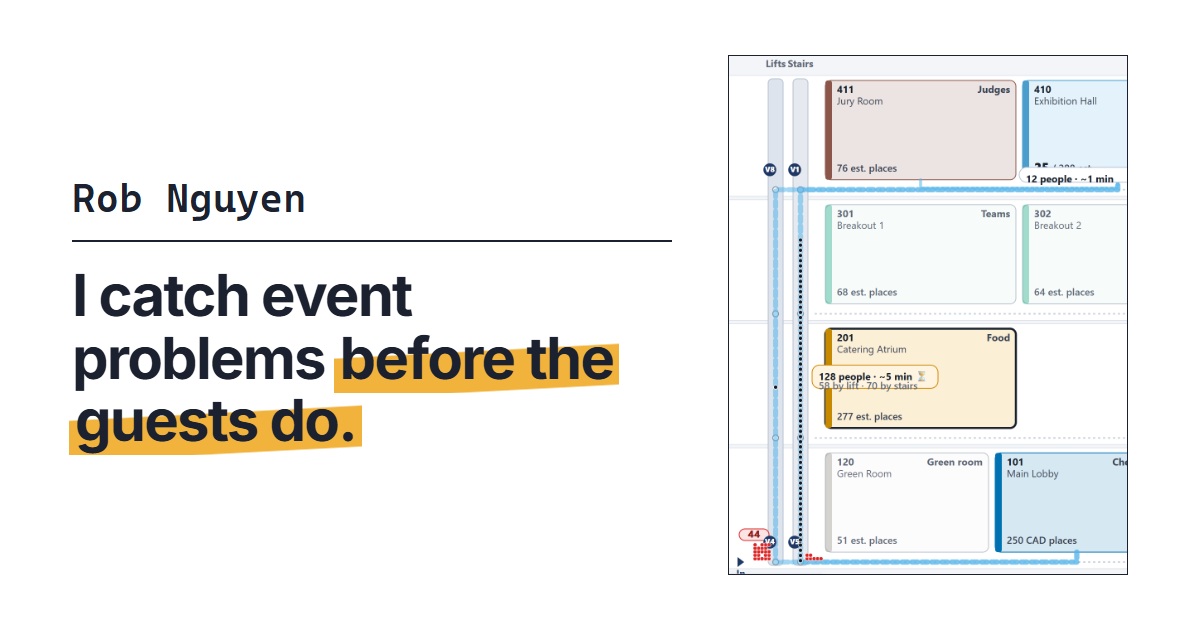
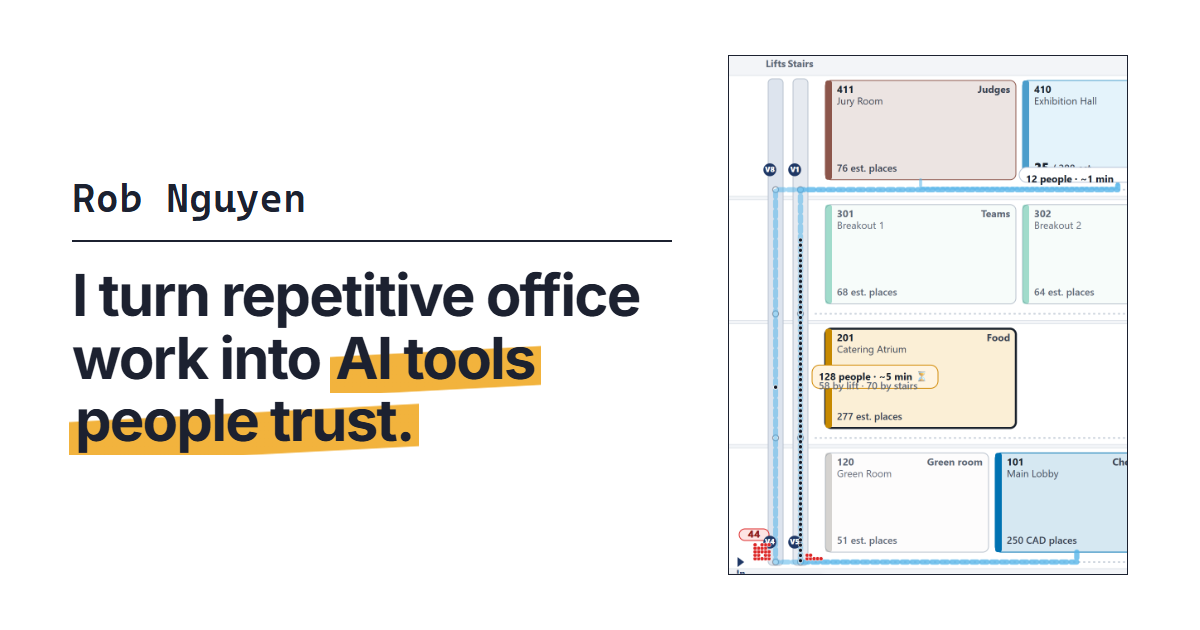
New home headline, Events Finance tools, remove How this site was made

Changed region(s): [[0.0617, 0.4222, 0.555, 0.7238]]

diff --git a/index.html b/index.html
@@ -5,13 +5,13 @@
 <meta name="viewport" content="width=device-width, initial-scale=1">
 <meta http-equiv="Content-Security-Policy" content="default-src 'none'; script-src 'self'; style-src 'self'; img-src 'self'; media-src 'self'; font-src 'self'; connect-src 'none'; frame-src 'none'; object-src 'none'; base-uri 'none'; form-action 'none'">
 <meta name="referrer" content="no-referrer">
-<title>Rob Nguyen | Events, planned to the detail</title>
-<meta name="description" content="I catch event problems before the guests do: planning, catering, set-ups and the tools that check them, at U of T Engineering.">
+<title>Rob Nguyen | AI tools people trust</title>
+<meta name="description" content="I turn repetitive office work into AI tools people trust: an office assistant, an event planner and automated invoice approvals, at U of T Engineering.">
 <meta property="og:type" content="website">
-<meta property="og:title" content="Rob Nguyen | Events, planned to the detail">
-<meta property="og:description" content="I catch event problems before the guests do: planning, catering, set-ups and the tools that check them, at U of T Engineering.">
+<meta property="og:title" content="Rob Nguyen | AI tools people trust">
+<meta property="og:description" content="I turn repetitive office work into AI tools people trust: an office assistant, an event planner and automated invoice approvals, at U of T Engineering.">
 <meta property="og:image" content="https://bobbypendragon.github.io/img/social-card.png">
-<meta property="og:image:alt" content="The name Rob Nguyen and the line I catch event problems before the guests do, beside a screenshot of the design competition planner in Demo Hall, a fictional venue.">
+<meta property="og:image:alt" content="The name Rob Nguyen and the line I turn repetitive office work into AI tools people trust, beside a screenshot of the design competition planner in Demo Hall, a fictional venue.">
 <meta property="og:url" content="https://bobbypendragon.github.io/">
 <link rel="canonical" href="https://bobbypendragon.github.io/">
 <link rel="icon" href="favicon.ico" sizes="any">
@@ -48,7 +48,7 @@
 </div>
 </header>
 <main id="main" tabindex="-1">
-<div class="docbar" aria-hidden="true"><div class="wrap docbar-inner"><span>Run of show</span><span class="docbar-who">Rob Nguyen &middot; ISTEP, U of T Engineering</span><span class="docbar-rev">Rev. Nov 2026</span></div></div><section class="row show-intro"><div class="wrap row-grid"><p class="row-label" aria-hidden="true">House open</p><div class="row-body"><h1>I catch event problems <span class="mark">before the guests do.</span></h1><div class="intro-cols"><p class="intro-lede">I work on events at ISTEP, U of T Engineering: catering for every diet, room set-ups, table cards and badges, and getting vendors paid. When the same problem keeps happening, I build a tool that catches it.</p><p class="intro-ai-short"><strong>How I work:</strong> I design and direct; Claude helps me build. <a href="about.html#how-i-work">More on how I work</a></p></div></div></div></section><section class="row stage-panel" aria-labelledby="onstage-h"><div class="wrap row-grid"><p class="row-label">Featured</p><div class="row-body"><div class="stage-inner"><div class="stage-copy"><p class="stage-status"><span class="status status-in-use"><span class="status-dot" aria-hidden="true"></span>In use by my team</span></p><h2 id="onstage-h" class="stage-title">Design competition planner</h2><p class="stage-line">One offline file that replays every move of a 200-person, five-floor event, finds the bottlenecks and suggests fixes it has already tested.</p><ul class="stage-stats"><li><strong class="num">200</strong><span>guests across five floors</span></li><li><strong class="num">3</strong><span>days, planned move by move</span></li><li><strong class="num">9</strong><span>room set-up styles</span></li></ul><div class="stage-cta"><a class="btn-stage" href="projects/event-planner.html">See how it works <span aria-hidden="true">&rarr;</span></a><p class="stage-new"><span class="mono">New</span> Reads the building's floor plans from CAD and prints room set-up diagrams.</p></div></div><figure class="stage-media vt-event-planner"><video controls preload="none" playsinline poster="media/event-planner/demo/04-report-stacked-poster960.webp" width="1440" height="900" aria-describedby="stage-cap"><source src="assets/event-planner/demo/simulation.mp4" type="video/mp4"><p>This browser can't play the video. <a href="assets/event-planner/demo/simulation.mp4">Download the MP4</a> (2.4 MB).</p></video><figcaption id="stage-cap">A 33-second screen recording of the simulation in Demo Hall, a fictional venue, person by person: the climb to the exhibition, the coffee break, the awards and dinner. No sound; 2.4 MB MP4.</figcaption></figure></div></div></div></section><section class="row stat-band"><div class="wrap row-grid"><span class="row-label"></span><div class="row-body"><ul class="band"><li><a href="projects/event-operations.html"><strong class="num">7</strong><span class="band-label">issues flagged before the guests arrived</span></a></li><li><a href="projects/event-operations.html"><strong class="num">210</strong><span class="band-label">meals over three days for 35 guests, within budget</span></a></li><li><a href="projects/atlas.html"><strong class="num">23</strong><span class="band-label">printable guides so visitors find the room</span></a></li><li><a href="projects/virtual-office.html"><strong class="num">16</strong><span class="band-label">everyday office tasks turned into checked first drafts</span></a></li></ul></div></div></section><section class="row program" id="program" aria-labelledby="prog-h"><div class="wrap row-grid"><h2 class="row-label" id="prog-h">Selected work</h2><div class="row-body"><ul class="bento bento-main"><li class="pcard md"><a class="pcard-link" href="projects/event-operations.html"><span class="pcard-media vt-event-operations"><img src="media/virtual-office/tent-cards/pages/1-plain-set-p1-show960-c20-23-80-52.webp" srcset="media/virtual-office/tent-cards/pages/1-plain-set-p1-show640-c20-23-80-52.webp 640w, media/virtual-office/tent-cards/pages/1-plain-set-p1-show960-c20-23-80-52.webp 735w" sizes="(max-width: 760px) 100vw, (max-width: 1023px) 50vw, 470px" alt="Preview of Event operations: catering, tent cards and nametags." width="735" height="459" loading="lazy" decoding="async"></span><span class="pcard-body"><span class="pcard-top"><span class="status">Delivered</span></span><span class="pcard-title">Event operations: catering, tent cards and nametags</span><span class="pcard-result">7 issues flagged before the guests arrived</span></span></a></li><li class="pcard md"><a class="pcard-link" href="projects/events-finance.html"><span class="pcard-media typo steps vt-events-finance" aria-hidden="true"><span class="typo-step"><span class="typo-step-n">1</span>Quote</span><span class="typo-step"><span class="typo-step-n">2</span>Approval</span><span class="typo-step"><span class="typo-step-n">3</span>Invoice</span><span class="typo-step"><span class="typo-step-n">4</span>Payment</span></span><span class="pcard-body"><span class="pcard-top"><span class="status status-in-use"><span class="status-dot" aria-hidden="true"></span>In use</span></span><span class="pcard-title">Events Finance workflow</span><span class="pcard-result">Quotes to paid invoices, with the right sign-off at each step</span></span></a></li><li class="pcard md"><a class="pcard-link" href="projects/atlas.html"><span class="pcard-media vt-atlas"><img src="media/atlas/istep-artifact-preview-portfolio-show960-c1-4-47-48.webp" srcset="media/atlas/istep-artifact-preview-portfolio-show640-c1-4-47-48.webp 640w, media/atlas/istep-artifact-preview-portfolio-show960-c1-4-47-48.webp 789w" sizes="(max-width: 760px) 100vw, (max-width: 1023px) 50vw, 470px" alt="An Atlas route on the campus map, from Queen&#x27;s Park station to ISTEP." width="789" height="493" loading="lazy" decoding="async"></span><span class="pcard-body"><span class="pcard-top"><span class="status">Built</span></span><span class="pcard-title">Atlas</span><span class="pcard-result">23 printable guides so visitors find the room</span></span></a></li><li class="pcard md"><a class="pcard-link" href="projects/virtual-office.html"><span class="pcard-media vt-virtual-office"><img src="media/virtual-office/ask-the-office-live-show960-c4-25-96-66.webp" srcset="media/virtual-office/ask-the-office-live-show640-c4-25-96-66.webp 640w, media/virtual-office/ask-the-office-live-show960-c4-25-96-66.webp 960w" sizes="(max-width: 760px) 100vw, (max-width: 1023px) 50vw, 470px" alt="The Ask the Office building, with cat coworkers in rooms labelled by task." width="960" height="600" loading="lazy" decoding="async"></span><span class="pcard-body"><span class="pcard-top"><span class="status status-in-use"><span class="status-dot" aria-hidden="true"></span>In use</span></span><span class="pcard-title">Virtual Office</span><span class="pcard-result">Office tasks turned into checked first drafts; a person always sends</span></span></a></li></ul><p class="hire-more"><a href="work.html">See all projects</a></p></div></div></section>
+<div class="docbar" aria-hidden="true"><div class="wrap docbar-inner"><span>Run of show</span><span class="docbar-who">Rob Nguyen &middot; ISTEP, U of T Engineering</span><span class="docbar-rev">Rev. Nov 2026</span></div></div><section class="row show-intro"><div class="wrap row-grid"><p class="row-label" aria-hidden="true">House open</p><div class="row-body"><h1>I turn repetitive office work into <span class="mark">AI tools people trust.</span></h1><div class="intro-cols"><p class="intro-lede">I work at ISTEP, U of T Engineering. When the same job keeps coming back, I build a tool for it with Claude or Microsoft 365: an AI assistant for the whole office, an event planner and automated invoice approvals. People stay in charge, and personal data stays where it belongs.</p><p class="intro-ai-short"><strong>How I work:</strong> I design and direct; Claude helps me build. <a href="about.html#how-i-work">More on how I work</a></p></div></div></div></section><section class="row stage-panel" aria-labelledby="onstage-h"><div class="wrap row-grid"><p class="row-label">Featured</p><div class="row-body"><div class="stage-inner"><div class="stage-copy"><p class="stage-status"><span class="status status-in-use"><span class="status-dot" aria-hidden="true"></span>In use by my team</span></p><h2 id="onstage-h" class="stage-title">Design competition planner</h2><p class="stage-line">One offline file that replays every move of a 200-person, five-floor event, finds the bottlenecks and suggests fixes it has already tested.</p><ul class="stage-stats"><li><strong class="num">200</strong><span>guests across five floors</span></li><li><strong class="num">3</strong><span>days, planned move by move</span></li><li><strong class="num">9</strong><span>room set-up styles</span></li></ul><div class="stage-cta"><a class="btn-stage" href="projects/event-planner.html">See how it works <span aria-hidden="true">&rarr;</span></a><p class="stage-new"><span class="mono">New</span> Reads the building's floor plans from CAD and prints room set-up diagrams.</p></div></div><figure class="stage-media vt-event-planner"><video controls preload="none" playsinline poster="media/event-planner/demo/04-report-stacked-poster960.webp" width="1440" height="900" aria-describedby="stage-cap"><source src="assets/event-planner/demo/simulation.mp4" type="video/mp4"><p>This browser can't play the video. <a href="assets/event-planner/demo/simulation.mp4">Download the MP4</a> (2.4 MB).</p></video><figcaption id="stage-cap">A 33-second screen recording of the simulation in Demo Hall, a fictional venue, person by person: the climb to the exhibition, the coffee break, the awards and dinner. No sound; 2.4 MB MP4.</figcaption></figure></div></div></div></section><section class="row stat-band"><div class="wrap row-grid"><span class="row-label"></span><div class="row-body"><ul class="band"><li><a href="projects/event-operations.html"><strong class="num">7</strong><span class="band-label">issues flagged before the guests arrived</span></a></li><li><a href="projects/event-operations.html"><strong class="num">210</strong><span class="band-label">meals over three days for 35 guests, within budget</span></a></li><li><a href="projects/atlas.html"><strong class="num">23</strong><span class="band-label">printable guides so visitors find the room</span></a></li><li><a href="projects/virtual-office.html"><strong class="num">16</strong><span class="band-label">everyday office tasks turned into checked first drafts</span></a></li></ul></div></div></section><section class="row program" id="program" aria-labelledby="prog-h"><div class="wrap row-grid"><h2 class="row-label" id="prog-h">Selected work</h2><div class="row-body"><ul class="bento bento-main"><li class="pcard md"><a class="pcard-link" href="projects/event-operations.html"><span class="pcard-media vt-event-operations"><img src="media/virtual-office/tent-cards/pages/1-plain-set-p1-show960-c20-23-80-52.webp" srcset="media/virtual-office/tent-cards/pages/1-plain-set-p1-show640-c20-23-80-52.webp 640w, media/virtual-office/tent-cards/pages/1-plain-set-p1-show960-c20-23-80-52.webp 735w" sizes="(max-width: 760px) 100vw, (max-width: 1023px) 50vw, 470px" alt="Preview of Event operations: catering, tent cards and nametags." width="735" height="459" loading="lazy" decoding="async"></span><span class="pcard-body"><span class="pcard-top"><span class="status">Delivered</span></span><span class="pcard-title">Event operations: catering, tent cards and nametags</span><span class="pcard-result">7 issues flagged before the guests arrived</span></span></a></li><li class="pcard md"><a class="pcard-link" href="projects/events-finance.html"><span class="pcard-media typo steps vt-events-finance" aria-hidden="true"><span class="typo-step"><span class="typo-step-n">1</span>Quote: SharePoint</span><span class="typo-step"><span class="typo-step-n">2</span>Approval: Teams</span><span class="typo-step"><span class="typo-step-n">3</span>Invoice: SharePoint</span><span class="typo-step"><span class="typo-step-n">4</span>Payment: Power Automate</span></span><span class="pcard-body"><span class="pcard-top"><span class="status status-in-use"><span class="status-dot" aria-hidden="true"></span>In use</span></span><span class="pcard-title">Events Finance workflow</span><span class="pcard-result">Power Automate, SharePoint and Teams approvals, from quote to paid invoice</span></span></a></li><li class="pcard md"><a class="pcard-link" href="projects/atlas.html"><span class="pcard-media vt-atlas"><img src="media/atlas/istep-artifact-preview-portfolio-show960-c1-4-47-48.webp" srcset="media/atlas/istep-artifact-preview-portfolio-show640-c1-4-47-48.webp 640w, media/atlas/istep-artifact-preview-portfolio-show960-c1-4-47-48.webp 789w" sizes="(max-width: 760px) 100vw, (max-width: 1023px) 50vw, 470px" alt="An Atlas route on the campus map, from Queen&#x27;s Park station to ISTEP." width="789" height="493" loading="lazy" decoding="async"></span><span class="pcard-body"><span class="pcard-top"><span class="status">Built</span></span><span class="pcard-title">Atlas</span><span class="pcard-result">23 printable guides so visitors find the room</span></span></a></li><li class="pcard md"><a class="pcard-link" href="projects/virtual-office.html"><span class="pcard-media vt-virtual-office"><img src="media/virtual-office/ask-the-office-live-show960-c4-25-96-66.webp" srcset="media/virtual-office/ask-the-office-live-show640-c4-25-96-66.webp 640w, media/virtual-office/ask-the-office-live-show960-c4-25-96-66.webp 960w" sizes="(max-width: 760px) 100vw, (max-width: 1023px) 50vw, 470px" alt="The Ask the Office building, with cat coworkers in rooms labelled by task." width="960" height="600" loading="lazy" decoding="async"></span><span class="pcard-body"><span class="pcard-top"><span class="status status-in-use"><span class="status-dot" aria-hidden="true"></span>In use</span></span><span class="pcard-title">Virtual Office</span><span class="pcard-result">Office tasks turned into checked first drafts; a person always sends</span></span></a></li></ul><p class="hire-more"><a href="work.html">See all projects</a></p></div></div></section>
 </main>
 <footer class="site-footer stage-footer">
 <div class="wrap">

diff --git a/about.html b/about.html
@@ -11,7 +11,7 @@
 <meta property="og:title" content="About | Rob Nguyen">
 <meta property="og:description" content="About Rob Nguyen: the event work I do at ISTEP, how I work with Claude and a team of agents, AI literacy in practice, and how I vet an AI tool.">
 <meta property="og:image" content="https://bobbypendragon.github.io/img/social-card.png">
-<meta property="og:image:alt" content="The name Rob Nguyen and the line I catch event problems before the guests do, beside a screenshot of the design competition planner in Demo Hall, a fictional venue.">
+<meta property="og:image:alt" content="The name Rob Nguyen and the line I turn repetitive office work into AI tools people trust, beside a screenshot of the design competition planner in Demo Hall, a fictional venue.">
 <meta property="og:url" content="https://bobbypendragon.github.io/about.html">
 <link rel="canonical" href="https://bobbypendragon.github.io/about.html">
 <link rel="icon" href="favicon.ico" sizes="any">
@@ -70,20 +70,6 @@
 </div>
 </section>
 
-<section class="about-sec" aria-labelledby="site-made">
-<p class="row-label" aria-hidden="true">This site</p>
-<div class="row-body">
-<h2 id="site-made">How this site was made</h2>
-<ol class="made-log">
-<li><strong>Brief.</strong> I set one audience, simplicity first, and the rules: no names but mine, a fictional venue in every planner image, Canadian English, nothing that tracks visitors.</li>
-<li><strong>Plan.</strong> Claude proposed the structure. I chose the "run of show" idea and turned down a desktop-style redesign I had explored.</li>
-<li><strong>Delegate.</strong> A lead Claude session briefed separate agents: one rebuilt the pages while four others reviewed the design, the AI evidence, the usability and first impressions in parallel.</li>
-<li><strong>Verify.</strong> The lead session checked each agent's work itself: a link and privacy checker, a search of every file headed for upload for names I had removed, and measurements at phone sizes.</li>
-<li><strong>Decide.</strong> I made the calls: a fictional building instead of the real one, the real event's name taken off, and work that wasn't my idea cut. Claude drafted much of the copy; I edited and approved it.</li>
-<li class="open-item"><strong>Not tested yet:</strong> real screen readers, Safari and iPhones.</li>
-</ol>
-</div>
-</section>
 
 <section class="about-sec" aria-labelledby="ai-literacy">
 <p class="row-label" aria-hidden="true">AI literacy</p>

diff --git a/projects/events-finance.html b/projects/events-finance.html
@@ -6,12 +6,12 @@
 <meta http-equiv="Content-Security-Policy" content="default-src 'none'; script-src 'self'; style-src 'self'; img-src 'self'; media-src 'self'; font-src 'self'; connect-src 'none'; frame-src 'none'; object-src 'none'; base-uri 'none'; form-action 'none'">
 <meta name="referrer" content="no-referrer">
 <title>Events Finance workflow | Rob Nguyen</title>
-<meta name="description" content="An end-to-end event-payment system on Power Automate and SharePoint, from quote and tiered approval to invoice, review and payment authorization.">
+<meta name="description" content="An event-payment system on Power Automate and SharePoint, with Teams approvals: from quote and tiered approval to invoice, review and payment authorization.">
 <meta property="og:type" content="website">
 <meta property="og:title" content="Events Finance workflow | Rob Nguyen">
-<meta property="og:description" content="An end-to-end event-payment system on Power Automate and SharePoint, from quote and tiered approval to invoice, review and payment authorization.">
+<meta property="og:description" content="An event-payment system on Power Automate and SharePoint, with Teams approvals: from quote and tiered approval to invoice, review and payment authorization.">
 <meta property="og:image" content="https://bobbypendragon.github.io/img/social-card.png">
-<meta property="og:image:alt" content="The name Rob Nguyen and the line I catch event problems before the guests do, beside a screenshot of the design competition planner in Demo Hall, a fictional venue.">
+<meta property="og:image:alt" content="The name Rob Nguyen and the line I turn repetitive office work into AI tools people trust, beside a screenshot of the design competition planner in Demo Hall, a fictional venue.">
 <meta property="og:url" content="https://bobbypendragon.github.io/projects/events-finance.html">
 <link rel="canonical" href="https://bobbypendragon.github.io/projects/events-finance.html">
 <link rel="icon" href="../favicon.ico" sizes="any">

diff --git a/projects/event-operations.html b/projects/event-operations.html
@@ -11,7 +11,7 @@
 <meta property="og:title" content="Event operations: catering, tent cards and nametags | Rob Nguyen">
 <meta property="og:description" content="Catering for a three-day workshop, and the food tent cards and nametags that Virtual Office prints: 7 issues flagged before the guests arrived.">
 <meta property="og:image" content="https://bobbypendragon.github.io/img/social-card.png">
-<meta property="og:image:alt" content="The name Rob Nguyen and the line I catch event problems before the guests do, beside a screenshot of the design competition planner in Demo Hall, a fictional venue.">
+<meta property="og:image:alt" content="The name Rob Nguyen and the line I turn repetitive office work into AI tools people trust, beside a screenshot of the design competition planner in Demo Hall, a fictional venue.">
 <meta property="og:url" content="https://bobbypendragon.github.io/projects/event-operations.html">
 <link rel="canonical" href="https://bobbypendragon.github.io/projects/event-operations.html">
 <link rel="icon" href="../favicon.ico" sizes="any">

diff --git a/projects/micro-credential-pricing.html b/projects/micro-credential-pricing.html
@@ -11,7 +11,7 @@
 <meta property="og:title" content="Pricing a new micro-credential | Rob Nguyen">
 <meta property="og:description" content="A pricing study for a new engineering micro-credential: a 12-sheet scenario model, a 13-slide deck and an explorer that checks itself.">
 <meta property="og:image" content="https://bobbypendragon.github.io/img/social-card.png">
-<meta property="og:image:alt" content="The name Rob Nguyen and the line I catch event problems before the guests do, beside a screenshot of the design competition planner in Demo Hall, a fictional venue.">
+<meta property="og:image:alt" content="The name Rob Nguyen and the line I turn repetitive office work into AI tools people trust, beside a screenshot of the design competition planner in Demo Hall, a fictional venue.">
 <meta property="og:url" content="https://bobbypendragon.github.io/projects/micro-credential-pricing.html">
 <link rel="canonical" href="https://bobbypendragon.github.io/projects/micro-credential-pricing.html">
 <link rel="icon" href="../favicon.ico" sizes="any">

diff --git a/projects/event-planner.html b/projects/event-planner.html
@@ -11,7 +11,7 @@
 <meta property="og:title" content="Design competition planner | Rob Nguyen">
 <meta property="og:description" content="One offline HTML file that plans a three-day, 200-person student design competition across five floors, replays every move and suggests tested fixes.">
 <meta property="og:image" content="https://bobbypendragon.github.io/img/social-card.png">
-<meta property="og:image:alt" content="The name Rob Nguyen and the line I catch event problems before the guests do, beside a screenshot of the design competition planner in Demo Hall, a fictional venue.">
+<meta property="og:image:alt" content="The name Rob Nguyen and the line I turn repetitive office work into AI tools people trust, beside a screenshot of the design competition planner in Demo Hall, a fictional venue.">
 <meta property="og:url" content="https://bobbypendragon.github.io/projects/event-planner.html">
 <link rel="canonical" href="https://bobbypendragon.github.io/projects/event-planner.html">
 <link rel="icon" href="../favicon.ico" sizes="any">

diff --git a/projects/supply-closet.html b/projects/supply-closet.html
@@ -11,7 +11,7 @@
 <meta property="og:title" content="Supply Closet | Rob Nguyen">
 <meta property="og:description" content="A React app that tracks ISTEP&#x27;s swag and supplies: staff log what they take, a cat mascot&#x27;s mood shows stock health, and an AI helper drafts reorders.">
 <meta property="og:image" content="https://bobbypendragon.github.io/img/social-card.png">
-<meta property="og:image:alt" content="The name Rob Nguyen and the line I catch event problems before the guests do, beside a screenshot of the design competition planner in Demo Hall, a fictional venue.">
+<meta property="og:image:alt" content="The name Rob Nguyen and the line I turn repetitive office work into AI tools people trust, beside a screenshot of the design competition planner in Demo Hall, a fictional venue.">
 <meta property="og:url" content="https://bobbypendragon.github.io/projects/supply-closet.html">
 <link rel="canonical" href="https://bobbypendragon.github.io/projects/supply-closet.html">
 <link rel="icon" href="../favicon.ico" sizes="any">

diff --git a/projects/virtual-office.html b/projects/virtual-office.html
@@ -11,7 +11,7 @@
 <meta property="og:title" content="Virtual Office | Rob Nguyen">
 <meta property="og:description" content="A Claude plugin of 16 plain-language skills that turns ISTEP&#x27;s repetitive admin into checked first drafts, with U of T&#x27;s data rules built in.">
 <meta property="og:image" content="https://bobbypendragon.github.io/img/social-card.png">
-<meta property="og:image:alt" content="The name Rob Nguyen and the line I catch event problems before the guests do, beside a screenshot of the design competition planner in Demo Hall, a fictional venue.">
+<meta property="og:image:alt" content="The name Rob Nguyen and the line I turn repetitive office work into AI tools people trust, beside a screenshot of the design competition planner in Demo Hall, a fictional venue.">
 <meta property="og:url" content="https://bobbypendragon.github.io/projects/virtual-office.html">
 <link rel="canonical" href="https://bobbypendragon.github.io/projects/virtual-office.html">
 <link rel="icon" href="../favicon.ico" sizes="any">

diff --git a/projects/constellation.html b/projects/constellation.html
@@ -11,7 +11,7 @@
 <meta property="og:title" content="ISTEP Constellation map | Rob Nguyen">
 <meta property="og:description" content="An interactive 3D night sky of everyone ISTEP works with: who owns each relationship, how to reach an office, and where the network is thin.">
 <meta property="og:image" content="https://bobbypendragon.github.io/img/social-card.png">
-<meta property="og:image:alt" content="The name Rob Nguyen and the line I catch event problems before the guests do, beside a screenshot of the design competition planner in Demo Hall, a fictional venue.">
+<meta property="og:image:alt" content="The name Rob Nguyen and the line I turn repetitive office work into AI tools people trust, beside a screenshot of the design competition planner in Demo Hall, a fictional venue.">
 <meta property="og:url" content="https://bobbypendragon.github.io/projects/constellation.html">
 <link rel="canonical" href="https://bobbypendragon.github.io/projects/constellation.html">
 <link rel="icon" href="../favicon.ico" sizes="any">

diff --git a/projects/istep-find.html b/projects/istep-find.html
@@ -11,7 +11,7 @@
 <meta property="og:title" content="ISTEP Find | Rob Nguyen">
 <meta property="og:description" content="Find any file on the shared drive by what&#x27;s in it, in seconds, without anything leaving your computer. It reads scans and masks personal data.">
 <meta property="og:image" content="https://bobbypendragon.github.io/img/social-card.png">
-<meta property="og:image:alt" content="The name Rob Nguyen and the line I catch event problems before the guests do, beside a screenshot of the design competition planner in Demo Hall, a fictional venue.">
+<meta property="og:image:alt" content="The name Rob Nguyen and the line I turn repetitive office work into AI tools people trust, beside a screenshot of the design competition planner in Demo Hall, a fictional venue.">
 <meta property="og:url" content="https://bobbypendragon.github.io/projects/istep-find.html">
 <link rel="canonical" href="https://bobbypendragon.github.io/projects/istep-find.html">
 <link rel="icon" href="../favicon.ico" sizes="any">

diff --git a/projects/atlas.html b/projects/atlas.html
@@ -11,7 +11,7 @@
 <meta property="og:title" content="Atlas | Rob Nguyen">
 <meta property="og:description" content="A data pipeline that turns OpenStreetMap into 23 printable route guides and a 3D tool that walks visitors to the ISTEP office, door to door.">
 <meta property="og:image" content="https://bobbypendragon.github.io/img/social-card.png">
-<meta property="og:image:alt" content="The name Rob Nguyen and the line I catch event problems before the guests do, beside a screenshot of the design competition planner in Demo Hall, a fictional venue.">
+<meta property="og:image:alt" content="The name Rob Nguyen and the line I turn repetitive office work into AI tools people trust, beside a screenshot of the design competition planner in Demo Hall, a fictional venue.">
 <meta property="og:url" content="https://bobbypendragon.github.io/projects/atlas.html">
 <link rel="canonical" href="https://bobbypendragon.github.io/projects/atlas.html">
 <link rel="icon" href="../favicon.ico" sizes="any">

diff --git a/projects/mise-en-place.html b/projects/mise-en-place.html
@@ -11,7 +11,7 @@
 <meta property="og:title" content="Mise en Place | Rob Nguyen">
 <meta property="og:description" content="A proposal for one governed record of ISTEP, with Claude agents that propose and people who approve.">
 <meta property="og:image" content="https://bobbypendragon.github.io/img/social-card.png">
-<meta property="og:image:alt" content="The name Rob Nguyen and the line I catch event problems before the guests do, beside a screenshot of the design competition planner in Demo Hall, a fictional venue.">
+<meta property="og:image:alt" content="The name Rob Nguyen and the line I turn repetitive office work into AI tools people trust, beside a screenshot of the design competition planner in Demo Hall, a fictional venue.">
 <meta property="og:url" content="https://bobbypendragon.github.io/projects/mise-en-place.html">
 <link rel="canonical" href="https://bobbypendragon.github.io/projects/mise-en-place.html">
 <link rel="icon" href="../favicon.ico" sizes="any">
